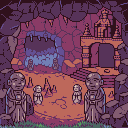
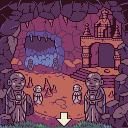
caves exit

Changed region(s): [[0.4375, 0.875, 0.5625, 1.0]]

diff --git a/packages/client/src/constants/rooms/15.ts b/packages/client/src/constants/rooms/15.ts
@@ -9,5 +9,11 @@ export const room15: Room = {
     key: 'templeCave',
     path: templeCave,
   },
-  objects: [],
+  objects: [
+    {
+      name: 'temple exit',
+      coordinates: { x1: 30, y1: 100, x2: 100, y2: 150 },
+      dialogue: 151,
+    },
+  ],
 };
